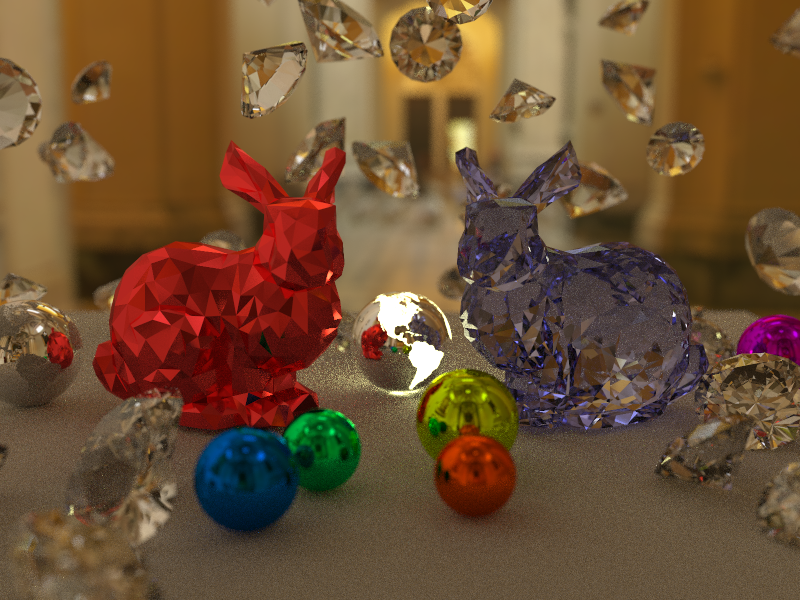
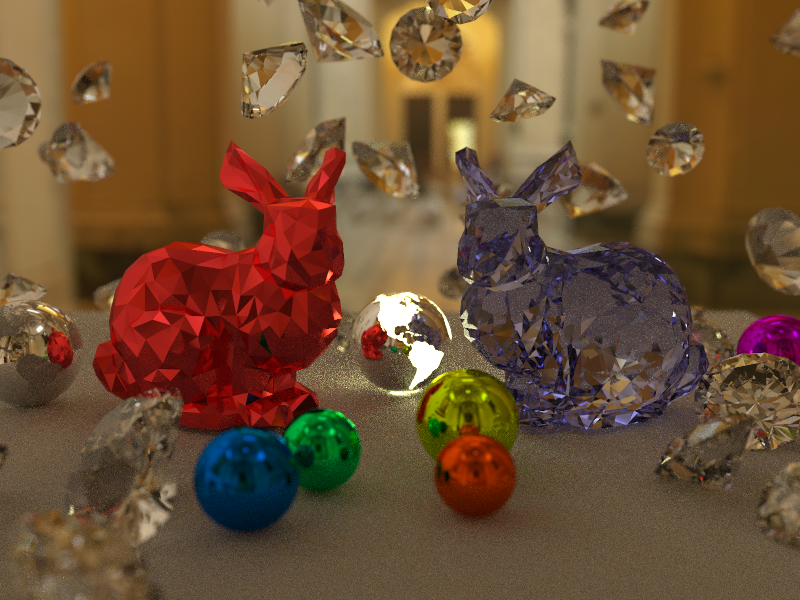
Change behavior: GGX sampling out of Hemispheric

Changed region(s): [[0.375, 0.57, 0.625, 0.69]]

diff --git a/src/renderer.rs b/src/renderer.rs
@@ -166,8 +166,8 @@ impl Renderer for PathTracingRenderer {
 
                             // 半球外が選ばれた場合はBRDFを0にする
                             // 真値よりも暗くなるので、サンプリングやり直す方が理想的ではありそう
-                            if intersection.normal.dot(&next_direction) <= 0.0 {
-                                intersection.material.albedo = Color::zero();
+                            if intersection.normal.dot(&next_direction).is_sign_negative() {
+                                break;
                             } else {
                                 let view = -ray.direction;
                                 let v_dot_n = saturate(view.dot(&intersection.normal));
